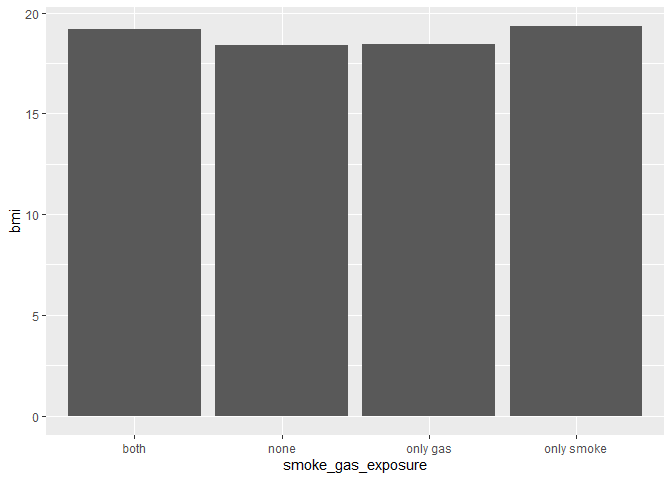
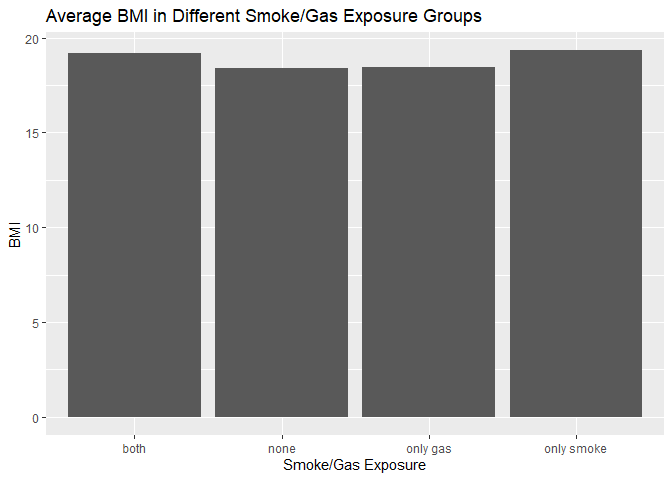
Assignment 2 submission https://github.com/USCbiostats/PM566/issues/44

diff --git a/Assignment 02/README.md b/Assignment 02/README.md
@@ -276,7 +276,9 @@ knitr::kable(tab_exposure)
 ``` r
 ggplot(merged, mapping = aes(x = bmi, y = fev)) +
   geom_point()+
-  geom_smooth(method = lm, se = FALSE)+
+  geom_smooth(method = lm, se = FALSE)+ 
+  ylab("Forced expiratory volume (ml)") + xlab("BMI") + 
+  ggtitle("Association Between FEV and BMI by CHS Community") +
   facet_wrap(~townname)
 ```
 
@@ -295,7 +297,9 @@ color_pal <- c("pink","violet", "darkviolet", "hot pink")
 
 ggplot(merged, mapping = aes(x=fev, fill = obesity_level)) +
   geom_histogram(col = "black", bins = 20) +
-  scale_fill_manual(values = color_pal)
+  scale_fill_manual(values = color_pal) +
+  xlab("Forced expiratory volume (ml)") + ylab("Frequency") +
+  ggtitle("Distribution of FEV at Different Obesity Levels") + labs(fill = "Obesity Level")
 ```
 
 ![](README_files/figure-gfm/unnamed-chunk-9-1.png)<!-- -->
@@ -303,7 +307,8 @@ ggplot(merged, mapping = aes(x=fev, fill = obesity_level)) +
 ``` r
 ggplot(merged, mapping = aes(x=fev, fill = smoke_gas_exposure)) +
   geom_histogram(col = "black", bins = 20) +
-  scale_fill_brewer(palette = "Greens")
+  scale_fill_brewer(palette = "Greens") +xlab("Forced expiratory volume (ml)") + ylab("Frequency") +
+  ggtitle("Distribution of FEV in Different Smoke/Gas Exposure Groups") + labs(fill = "Smoke/Gas Exposure")
 ```
 
 ![](README_files/figure-gfm/unnamed-chunk-9-2.png)<!-- -->
@@ -321,7 +326,9 @@ difficult to tell from the histogram.
 
 ``` r
 ggplot(merged, mapping = aes(x = smoke_gas_exposure, y = bmi)) +
-  geom_bar(stat= "summary")
+  geom_bar(stat= "summary") +
+   xlab("Smoke/Gas Exposure") + ylab("BMI") +
+  ggtitle("Average BMI in Different Smoke/Gas Exposure Groups")
 ```
 
     ## No summary function supplied, defaulting to `mean_se()`
@@ -335,14 +342,18 @@ different smoke and gas exposure groups.
 
 ``` r
 ggplot(merged, mapping = aes(x = smoke_gas_exposure, y = fev)) +
-  geom_boxplot()
+  geom_boxplot() +
+  xlab("Smoke/Gas Exposure") + ylab("Forced expiratory volume (ml)") +
+  ggtitle("Summary of FEV in Different Smoke/Gas Exposure Groups")
 ```
 
 ![](README_files/figure-gfm/unnamed-chunk-11-1.png)<!-- -->
 
 ``` r
 ggplot(merged, mapping = aes(x = smoke_gas_exposure, y = bmi)) +
-  geom_boxplot()
+  geom_boxplot() +
+  xlab("Smoke/Gas Exposure") + ylab("BMI") +
+  ggtitle("Summary of BMI in Different Smoke/Gas Exposure Groups")
 ```
 
 ![](README_files/figure-gfm/unnamed-chunk-11-2.png)<!-- -->
@@ -379,7 +390,9 @@ Riverside, Long Beach, and San Bernardino.
 ggplot(merged, mapping = aes(x = pm25_mass, y = fev)) +
   geom_point()+
   geom_smooth(method = lm, se = FALSE)+
-  geom_jitter()
+  geom_jitter() +
+  xlab("PM2.5 Mass") + ylab("Forced expiratory volume (ml)") +
+  ggtitle("Association between FEV and PM2.5 Mass")
 ```
 
     ## `geom_smooth()` using formula 'y ~ x'
